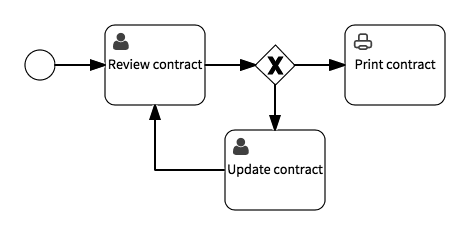
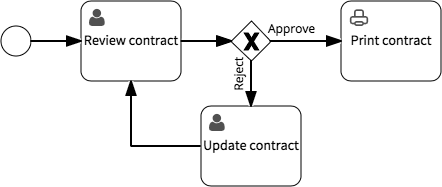
#32 Add ‘Manual decision variable’ section

Changed region(s): [[0.0, 0.0, 1.0, 0.9893], [0.4706, 0.9626, 0.6765, 1.0]]

diff --git a/docs/control-flow/exclusive-gateway.rst b/docs/control-flow/exclusive-gateway.rst
@@ -62,6 +62,25 @@ When adding form fields to the task before the exclusive gateway -
 `Review contract` in this example -
 the decision buttons are added to the form.
 
+Manual decision variable
+^^^^^^^^^^^^^^^^^^^^^^^^
+
+Adding a manual decision to a process also creates a :ref:`workflow variable <variables>`.
+You can use this to re-use the result of a decision later in the process,
+either to display the entered value on another form,
+or to use the value in an automatic decision’s condition.
+
+During workflow execution, the variable’s value is set to the selected decision -
+the text on the decision button.
+In this example, the decision variable value is set to ‘Approve’ or ‘Reject’.
+
+.. figure:: /_static/images/control-flow/excl-gateway-human-1.png
+
+   Decision variable values - ‘Approve’ or ‘Reject’
+
+The variable name is ‘Decision’, by default, or the name of the gateway if it has one.
+You can change the variable name on the process editor’s `Details` tab, in the `Field overview`.
+
 
 Automatic decision
 ^^^^^^^^^^^^^^^^^^
